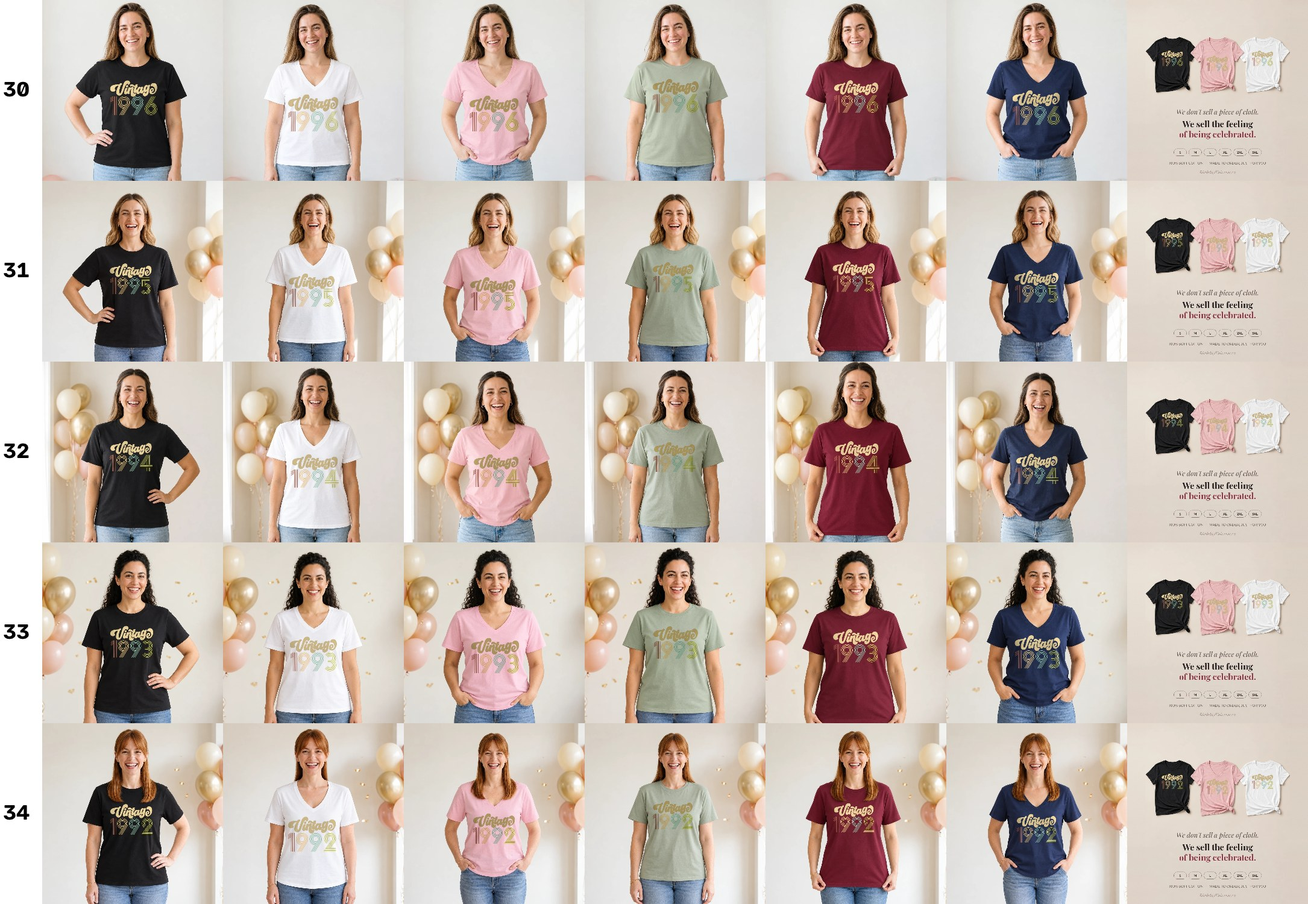
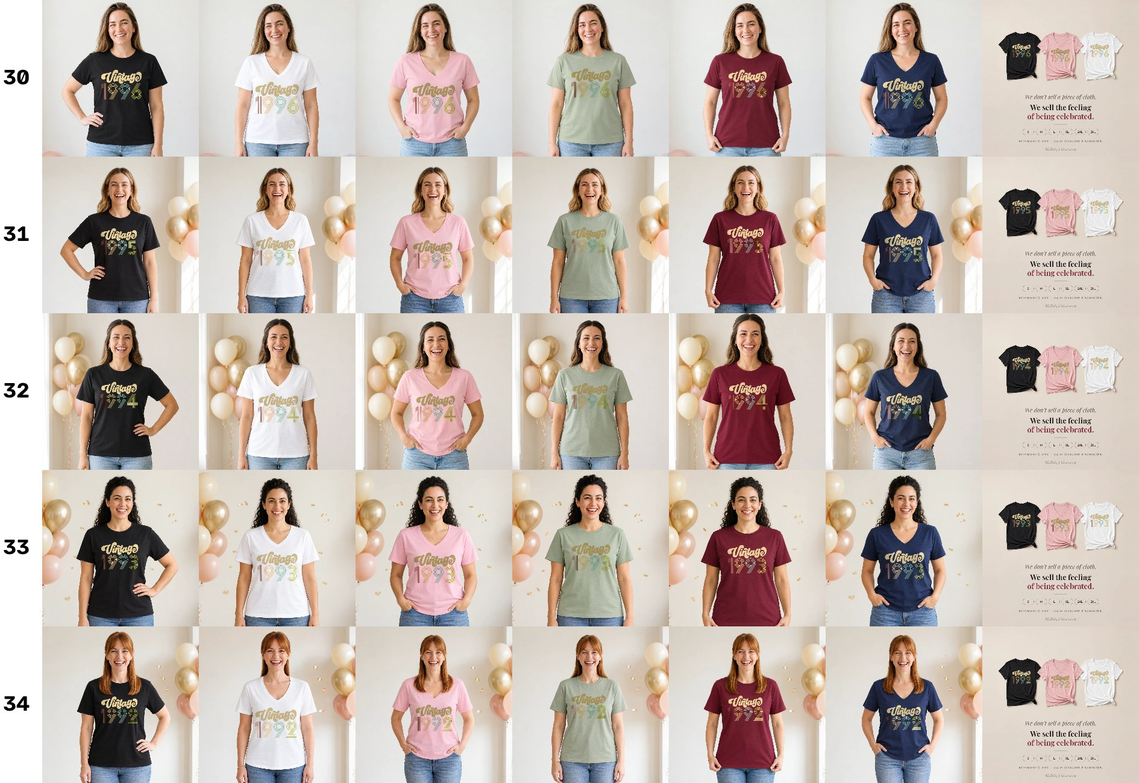
Vintage 35-50 product images; per-shirt inks on flat lay (30-50)
Claude-Session: https://claude.ai/code/session_01RFXLDoCFapJK3Pt9AUoro2

diff --git a/tools/product_images/flat_v4.py b/tools/product_images/flat_v4.py
@@ -6,6 +6,9 @@ def flat(dw,db,out,pw=168):
     im=cv2.imread('src_1293.png')
     for n,cx,top,ink in ([('black',210,391,dw),('pink',558,432,db),('white',909,391,db)] if 'vintage' in dw else [('black',212,372,dw),('pink',558,428,db),('white',925,377,db)]):
         m=cv2.imread(f'fmask_{n}.png',0)//255
+        import os as _o
+        _p=ink.rsplit('_',1)[0]+f'_{n}.png'
+        if 'vintage_e' in ink and _o.path.exists(_p): ink=_p
         cxa=cx
         if 'hello' in ink:
             import sys as _s;_s.path.insert(0,'..');from firstl import hello_info;hf,hc=hello_info(ink);pw=min(112/hf,190);cxa=cx+(0.5-hc)*pw
